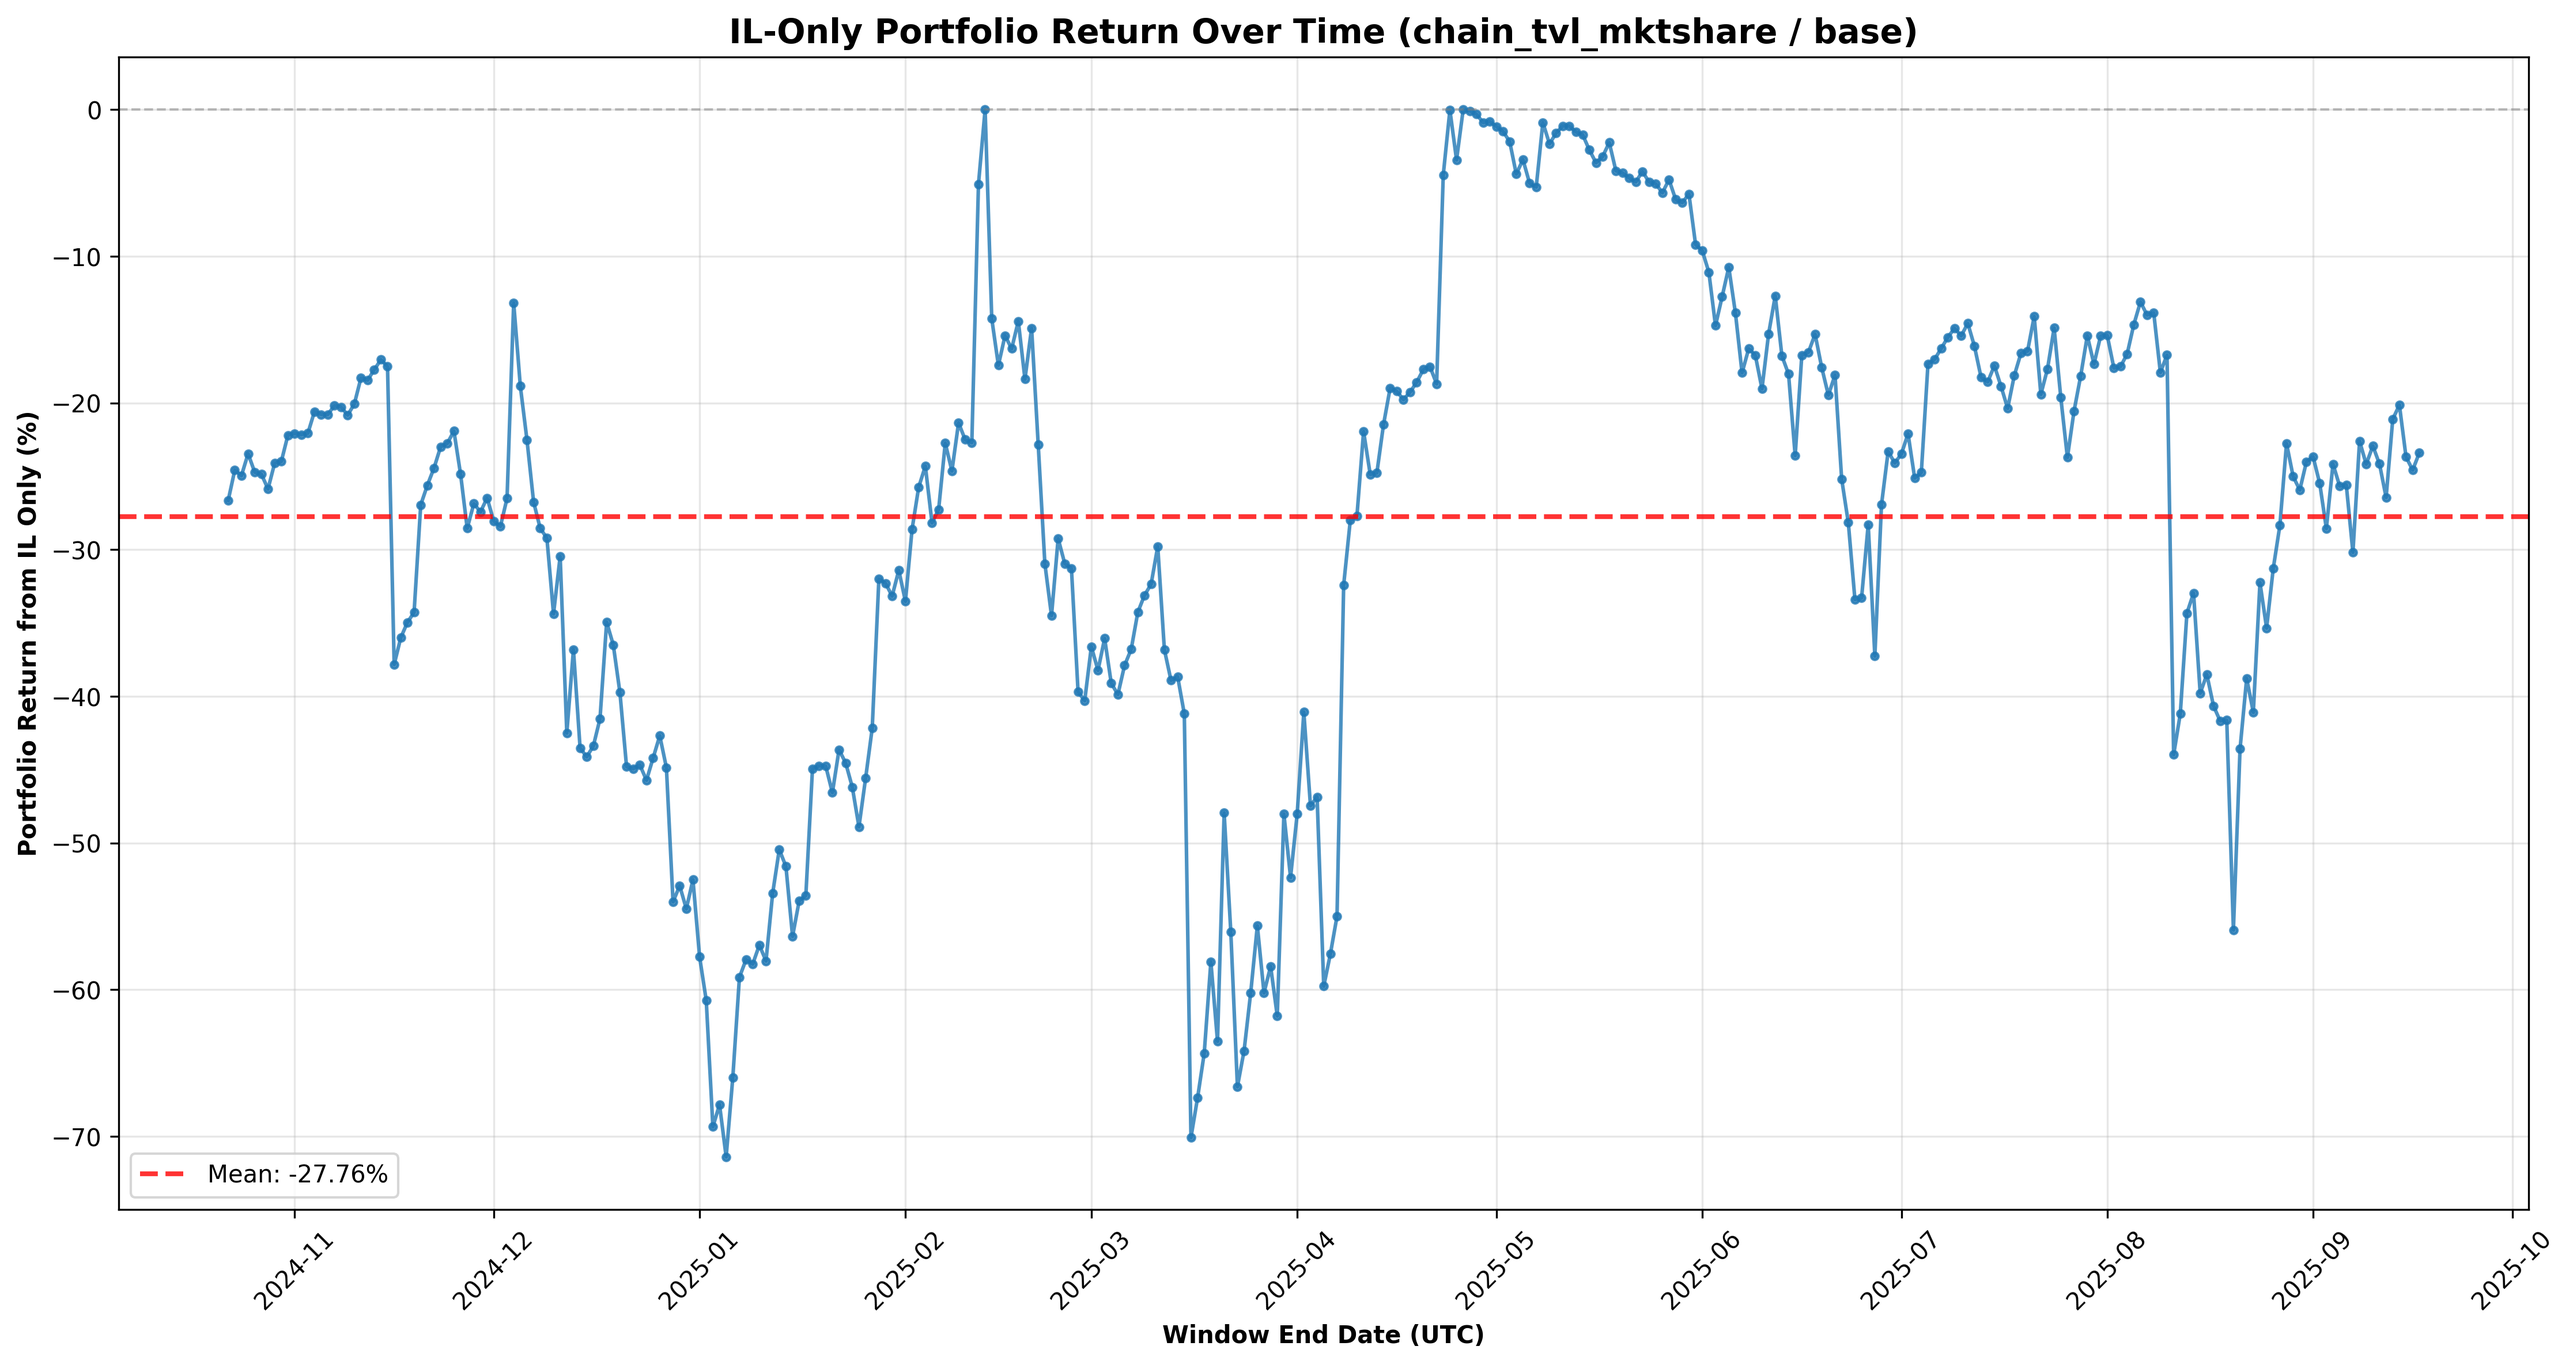
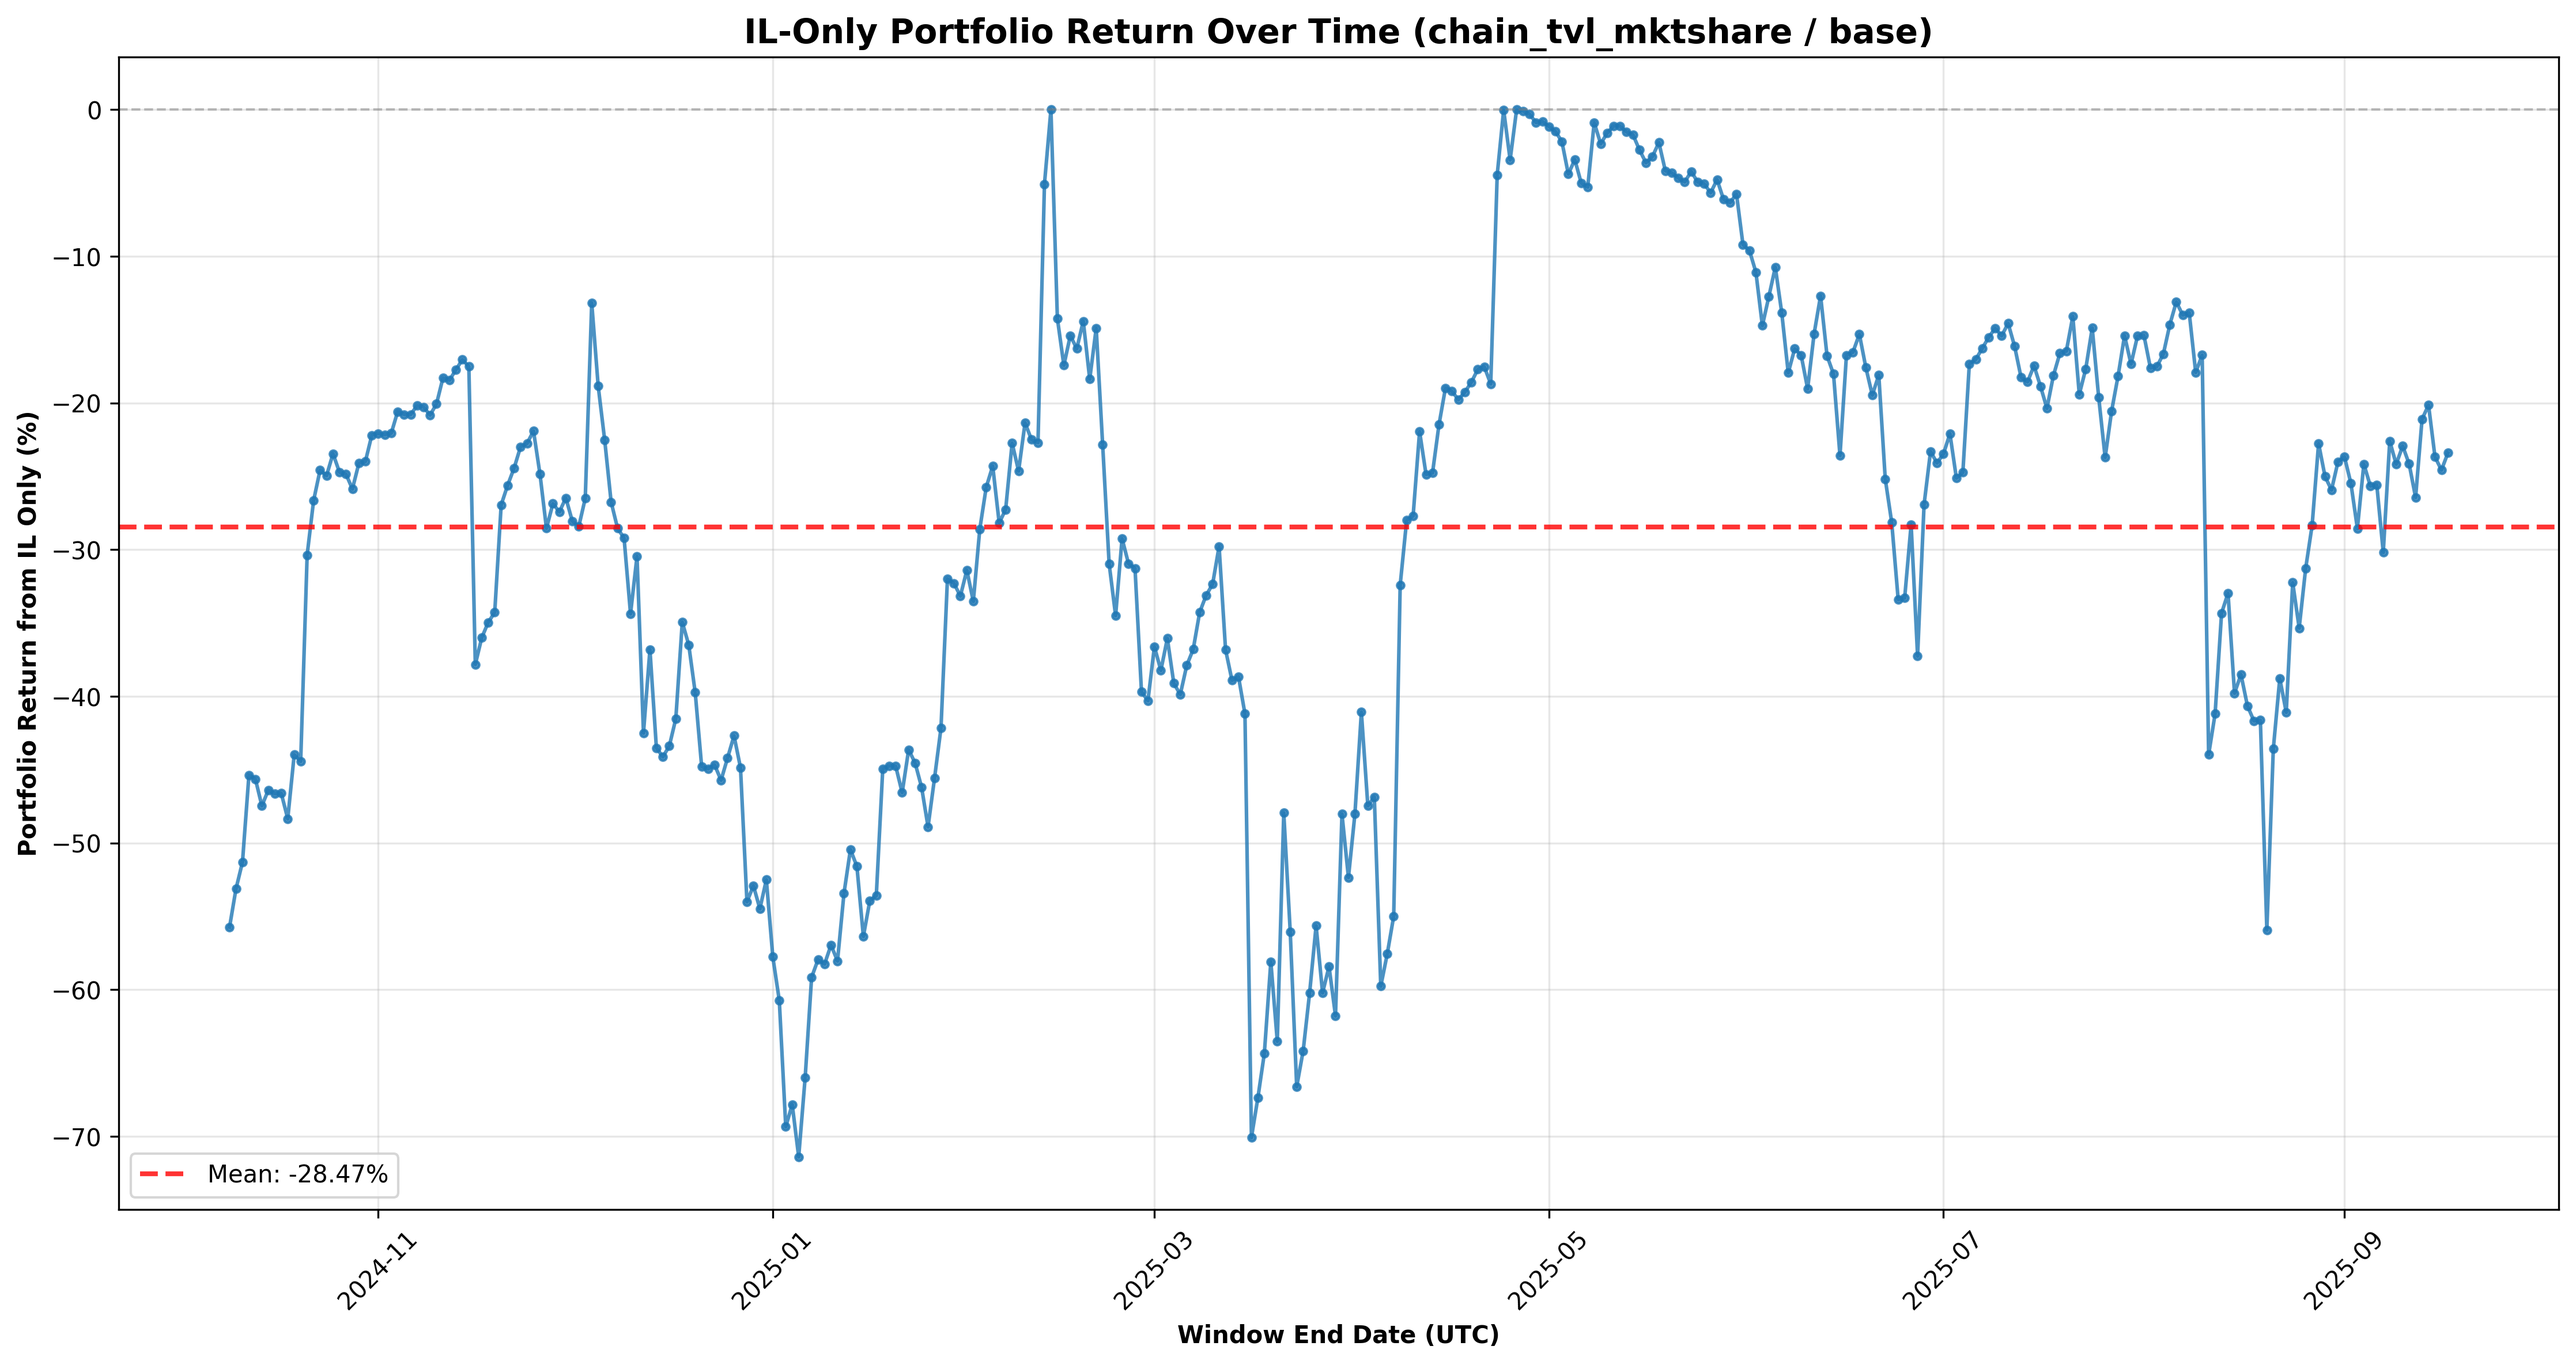
il_by_window.csv il_hist.png il_report.md il_timeseries.png il_by_window.csv il_hist.png il_report.md il_timeseries.png

diff --git a/chain_tvl_mktshare/base/2025-09-18-to-2025-10-01/il_report.md b/chain_tvl_mktshare/base/2025-09-18-to-2025-10-01/il_report.md
@@ -43,7 +43,7 @@ We simulate starting at each historical window strictly earlier than the cutoff 
 We **exclude** very early windows until a minimum history (processing.min_historical_data_months) has elapsed to avoid unstable bounds.
 
 ## Important
-- **Mean** -27.76% and **median** -24.57% IL-only returns are shown below.
+- **Mean** -28.47% and **median** -24.87% IL-only returns are shown below.
 - These IL losses must be compared to incentive APY to calculate your net returns.
 
 ## Portfolio Performance
@@ -57,9 +57,9 @@ This time series shows how IL-only portfolio returns have varied across differen
 
 ### Distribution Summary (IL-only, %)
 
-- Count: **331**
-- Mean: **-27.76%**, Std: **16.39%**
-- Median: **-24.57%**  |  P25: **-38.72%**  |  P10: **-53.44%**  |  P75: **-17.35%**
+- Count: **344**
+- Mean: **-28.47%**, Std: **16.51%**
+- Median: **-24.87%**  |  P25: **-40.75%**  |  P10: **-53.35%**  |  P75: **-17.50%**
 
 ## Calculating Your Net APY
 
@@ -80,13 +80,13 @@ Where:
 - **IL_Return**: Your expected impermanent loss return (as a decimal, typically negative)
 
 ### Example Calculation (Hypothetical Numbers Only):
-**Example calculation only**: Let's say Merkl shows **200% APY** (this is just an example - actual APY varies by market) and you experience the **median IL loss (-24.57%)**:
+**Example calculation only**: Let's say Merkl shows **200% APY** (this is just an example - actual APY varies by market) and you experience the **median IL loss (-24.87%)**:
 
 1. **Scale Merkl APY to period**: 200% × 0.036 = 7.1%
 2. **Convert to multiplier**: 1 + 7.1% = 1.071
-3. **Apply median IL loss**: 1.071 × (1 + -24.6%) = 1.071 × 0.754 = 0.808
-4. **Net return for 13 days**: -19.2%
-5. **Annualized (APY)**: (0.808)^28.1 - 1 = **-99.7% APY**
+3. **Apply median IL loss**: 1.071 × (1 + -24.9%) = 1.071 × 0.751 = 0.805
+4. **Net return for 13 days**: -19.5%
+5. **Annualized (APY)**: (0.805)^28.1 - 1 = **-99.8% APY**
 
 **Steps to use this with your actual numbers:**
 1. Find your market's Merkl campaign and note the **actual APY** (not the 200% example)

diff --git a/chain_tvl_mktshare/solana/2025-09-18-to-2025-10-01/il_report.md b/chain_tvl_mktshare/solana/2025-09-18-to-2025-10-01/il_report.md
@@ -43,7 +43,7 @@ We simulate starting at each historical window strictly earlier than the cutoff 
 We **exclude** very early windows until a minimum history (processing.min_historical_data_months) has elapsed to avoid unstable bounds.
 
 ## Important
-- **Mean** -16.20% and **median** -6.01% IL-only returns are shown below.
+- **Mean** -17.30% and **median** -6.65% IL-only returns are shown below.
 - These IL losses must be compared to incentive APY to calculate your net returns.
 
 ## Portfolio Performance
@@ -57,9 +57,9 @@ This time series shows how IL-only portfolio returns have varied across differen
 
 ### Distribution Summary (IL-only, %)
 
-- Count: **331**
-- Mean: **-16.20%**, Std: **21.67%**
-- Median: **-6.01%**  |  P25: **-27.72%**  |  P10: **-40.11%**  |  P75: **-1.21%**
+- Count: **344**
+- Mean: **-17.30%**, Std: **21.98%**
+- Median: **-6.65%**  |  P25: **-28.34%**  |  P10: **-43.90%**  |  P75: **-1.28%**
 
 ## Calculating Your Net APY
 
@@ -80,13 +80,13 @@ Where:
 - **IL_Return**: Your expected impermanent loss return (as a decimal, typically negative)
 
 ### Example Calculation (Hypothetical Numbers Only):
-**Example calculation only**: Let's say Merkl shows **200% APY** (this is just an example - actual APY varies by market) and you experience the **median IL loss (-6.01%)**:
+**Example calculation only**: Let's say Merkl shows **200% APY** (this is just an example - actual APY varies by market) and you experience the **median IL loss (-6.65%)**:
 
 1. **Scale Merkl APY to period**: 200% × 0.036 = 7.1%
 2. **Convert to multiplier**: 1 + 7.1% = 1.071
-3. **Apply median IL loss**: 1.071 × (1 + -6.0%) = 1.071 × 0.940 = 1.007
-4. **Net return for 13 days**: 0.7%
-5. **Annualized (APY)**: (1.007)^28.1 - 1 = **21.1% APY**
+3. **Apply median IL loss**: 1.071 × (1 + -6.7%) = 1.071 × 0.933 = 1.000
+4. **Net return for 13 days**: -0.0%
+5. **Annualized (APY)**: (1.000)^28.1 - 1 = **-0.1% APY**
 
 **Steps to use this with your actual numbers:**
 1. Find your market's Merkl campaign and note the **actual APY** (not the 200% example)
